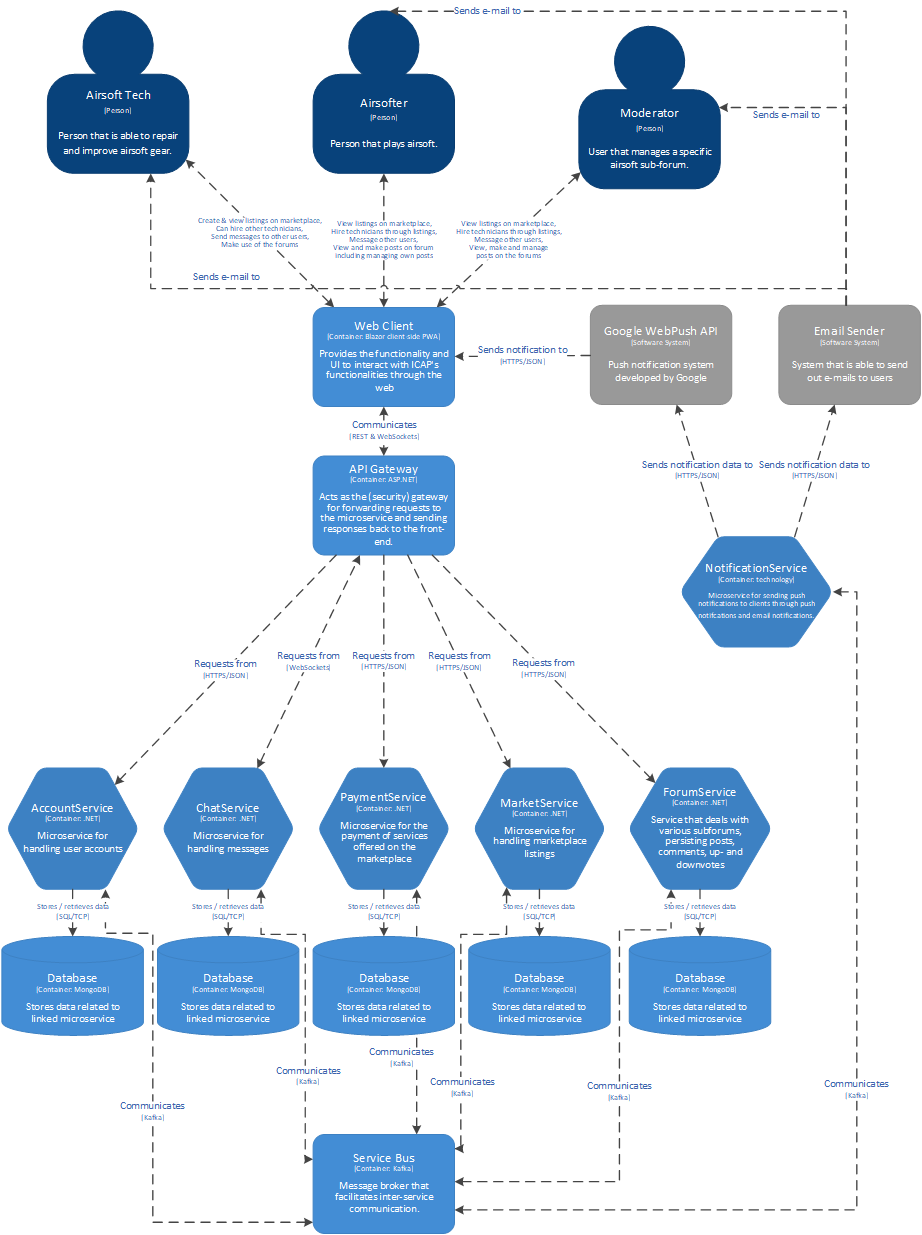
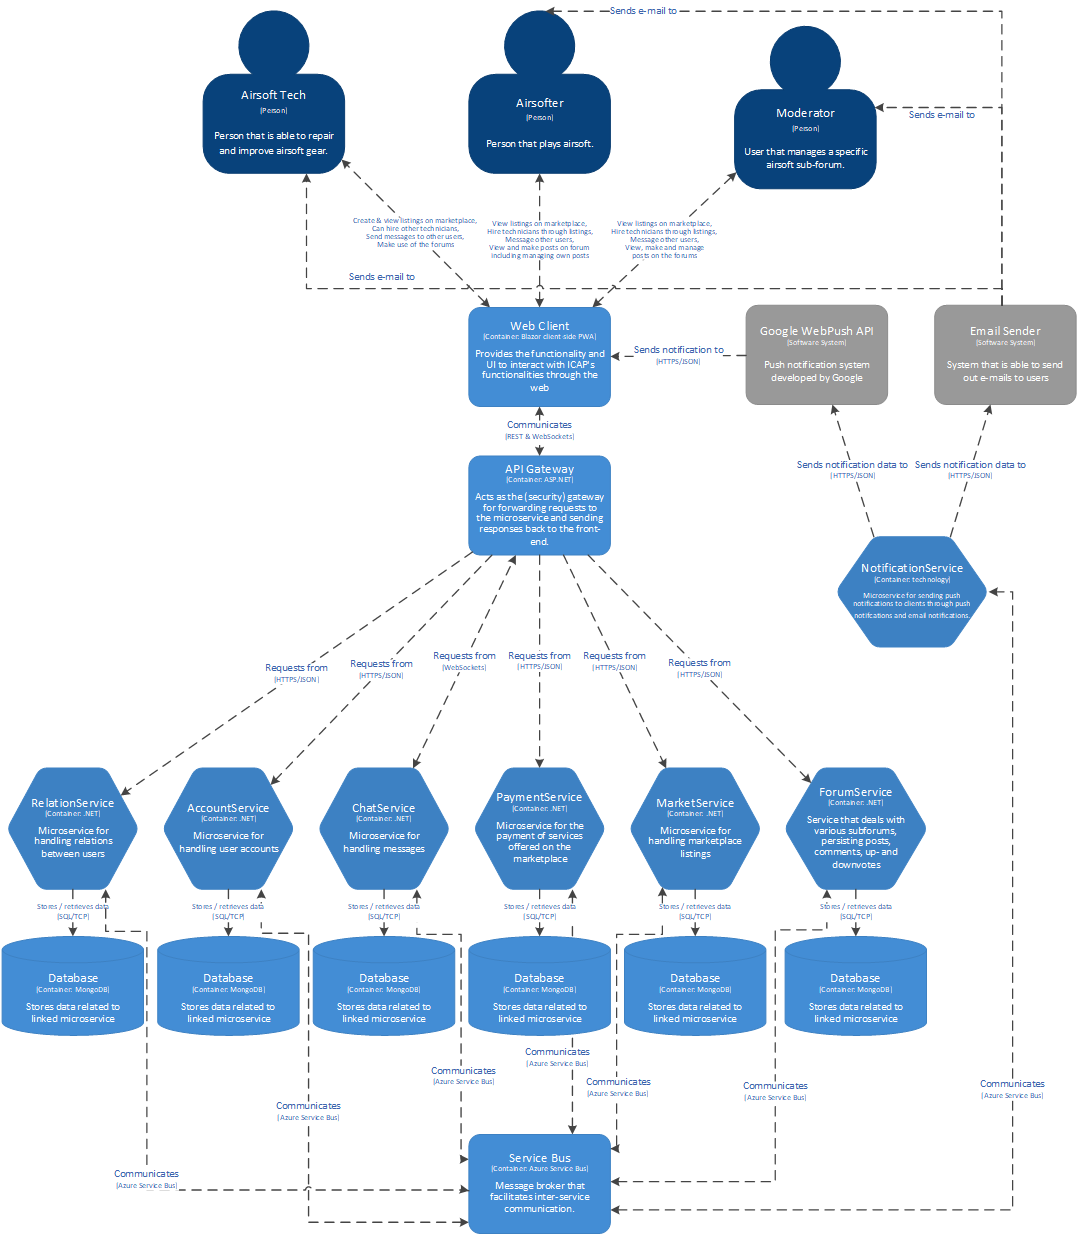
End of sprint 2 updates

diff --git a/srcs/ICAP_FriendService/Entities/FriendRequest.cs b/srcs/ICAP_FriendService/Entities/FriendRequest.cs
@@ -1,6 +1,8 @@
-namespace ICAP_FriendService.Entities
+using ICAP_AccountService.Entities;
+
+namespace ICAP_FriendService.Entities
 {
-    public class FriendRequest
+    public class FriendRequest : IEntity
     {
         public Guid Id { get; set; }
         public string UserFrom { get; set; }

diff --git a/srcs/ICAP_Client/RESTClients/AccountService.cs b/srcs/ICAP_Client/RESTClients/AccountService.cs
@@ -1,0 +1,6 @@
+namespace ICAP_Client.RESTClients
+{
+    public class AccountService
+    {
+    }
+}

diff --git a/docs/Technology_Choices.md b/docs/Technology_Choices.md
@@ -1,0 +1,97 @@
+# Enterprise-Scale Application: Technology Stack Decisions
+
+## Introduction
+The following document provides an analysis of each chosen technology and compares them with other available options, explaining why they are the preferred choice for this application.
+
+## Technology Stack Overview
+- **Language:** C#
+- **Message Broker:** Azure Service Bus
+- **Client:** Blazor WebAssembly
+- **Containerization:** Docker
+- **Container Orchestration:** Kubernetes
+- **Database:** MongoDB
+- **Service Mesh:** Istio
+- **Monitoring:** ELK Stack
+- **Testing Framework:** Specflow
+
+## Language: C#
+
+**C#** is a sophisticated, object-oriented language that excels in creating robust, maintainable applications.
+
+**Rationale:**
+- **Performance and Productivity:** C# is known for its balance between performance and developer productivity, while languages like Java also offer high performance, C#'s concise syntax and powerful features such as LINQ make it a better choice for rapid development. The syntax is overall less verbose as well.
+- **Platform Support:** Unlike other languages such as Python or Ruby, which are interpreted, C# is compiled to intermediate language and executed on the .NET runtime, which has better performance compared to the languages mentioned above.
+- **Integrated Development Environment (IDE):** The robust support from Visual Studio, a leading IDE for C#, significantly enhances developer productivity compared to other languages that lack such comprehensive tooling.
+
+## Message Broker: Azure Service Bus
+
+**Azure Service Bus** provides reliable message queuing and durable publish/subscribe messaging capabilities.
+
+**Rationale:**
+- **Integration with Azure:** Azure Service Bus is natively integrated into the Azure ecosystem, providing out-of-the-box support for Azure monitoring and management tools, unlike other brokers like RabbitMQ or Apache Kafka, which would require additional integration efforts.
+- **Streamlined Complexity:** Azure Service Bus offers a user-friendly and straightforward approach to message brokering, which is more practical for applications that do not demand Kafka’s elaborate configuration and robust scalability. It eliminates the operational complexity and the steep learning curve associated with Kafka, providing a more accessible platform for developers and reducing the need for specialized management.
+
+## Client: Blazor WebAssembly
+
+**Blazor WebAssembly** is a cutting-edge framework for building interactive web applications with C#.
+
+**Rationale:**
+- **Consistency:** Developers can use the same language (C#) across both client and server-side, unlike traditional JavaScript frameworks such as React or Angular, which require context switching.
+- **Interoperability:** Blazor enables interoperability with JavaScript libraries and existing web standards, offering the best of both worlds, while some alternatives like Angular have a steeper learning curve for those not already proficient in TypeScript.
+
+## Containerization: Docker
+
+**Docker** stands out as a containerization platform due to its simplicity and efficiency.
+
+**Rationale:**
+- **Industry Standard:** Docker has become synonymous with containerization, making it the de facto standard, while other container engines like Podman are still maturing.
+- **Tooling and Ecosystem:** The ecosystem around Docker, including Docker Compose and Docker Hub, offers a richer experience compared to alternatives like CoreOS rkt, which has less community and commercial support.
+- **Portability:** Docker containers can be easily ported across different environments, which is a more complex process with system-specific container solutions like LXC.
+
+## Container Orchestration: Kubernetes
+
+**Kubernetes** is the premier orchestrator for managing containerized applications at scale.
+
+**Rationale:**
+- **Community and Momentum:** Kubernetes has a larger community and more momentum than other orchestrators like Docker Swarm or Apache Mesos, ensuring better support and more frequent updates.
+- **Feature-Rich:** It offers a vast array of features that surpass those offered by alternatives, including advanced deployment strategies, self-healing capabilities, and extensive scalability options.
+- **Cloud Agnosticism:** Kubernetes can run on any cloud or on-premise environment, providing greater flexibility compared to cloud-specific services like Amazon ECS, which locks you into a specific cloud provider.
+
+## Database: MongoDB
+
+**MongoDB** is a document-based NoSQL database known for its flexibility and scalability.
+
+**Rationale:**
+- **Schema Flexibility:** Unlike traditional relational databases like SQL Server or MySQL, MongoDB's schema-less design allows it to handle a wide variety of data types and structures with ease.
+- **Scalability:** MongoDB's horizontal scaling through sharding is more straightforward than the vertical scaling often required by relational databases.
+- **Developer Experience:** The JSON-like document model is often more intuitive for developers than the tabular model in SQL databases, speeding up development cycles.
+
+
+## Service Mesh: Istio
+
+**Istio** is selected for its ability to seamlessly integrate and manage microservices communications.
+
+**Rationale:**
+- **Security:** Istio provides strong security features, including automatic mTLS, which are more comprehensive compared to simpler service meshes like Consul, which may require additional configurations.
+- **Ecosystem and Adoption:** Istio benefits from being part of the Cloud Native Computing Foundation (CNCF) landscape, ensuring broad community support and a rich ecosystem, unlike more nascent projects like Maesh.
+- **Integration with Existing Tools:** It integrates well with existing cloud-native tools like Prometheus and Grafana for monitoring, Jaeger for tracing, and ELK Stack for logging, offering a holistic service mesh solution that is more plug-and-play compared to alternatives.
+
+## Monitoring: ELK Stack
+
+The **ELK Stack** is chosen for its powerful capabilities in handling logs and monitoring the health of applications.
+
+**Rationale:**
+- **Comprehensive Solution:** ELK Stack provides a complete suite of tools for logging (Logstash), searching/indexing (Elasticsearch), and visualizing data (Kibana). Alternative solutions like Splunk offer similar functionalities but often at a higher cost and with less flexibility.
+- **Community and Plugins:** There is a wide range of plugins available for ELK, enhancing its functionality, which is not always the case with other tools like Graylog, which may have a more limited selection.
+- **Scalability and Flexibility:** ELK Stack scales horizontally and can be customized extensively to fit specific requirements, while some other solutions may not scale as efficiently or may be proprietary, leading to vendor lock-in.
+
+## Testing Framework: Specflow
+
+**Specflow** is the framework of choice for enabling Behavior-Driven Development (BDD) with C#.
+
+**Rationale:**
+- **BDD Focus:** Specflow is specifically designed for BDD, allowing us to define tests in natural language that non-technical stakeholders can understand. Other testing frameworks like NUnit or xUnit are more general-purpose and lack these native BDD capabilities.
+- **Integration with .NET:** As a native .NET solution, Specflow integrates seamlessly with the C# ecosystem, unlike Java-based BDD frameworks like JBehave or Cucumber-JVM, which would require inter-language operability.
+- **Tooling and Support:** Specflow comes with excellent tooling and support within Visual Studio, aiding in test automation and continuous integration processes, providing a more integrated experience compared to other frameworks that might require additional plugins or configurations.
+
+In conclusion, each component of the selected technology stack brings unique advantages that collectively offer a robust, scalable, and efficient solution for enterprise-scale application development. While alternative technologies exist and may provide their own benefits, the chosen stack aligns closely with the application requirements.
